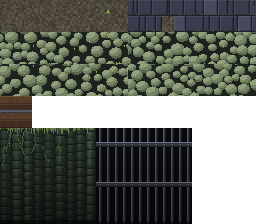
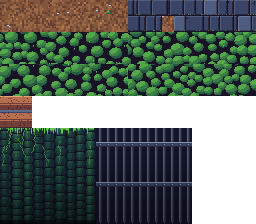
feat(art): vivid maze palette and a lighter day overlay

diff --git a/client/src/infrastructure/render/lighting.ts b/client/src/infrastructure/render/lighting.ts
@@ -9,8 +9,8 @@ type Rgb = [number, number, number];
 const LEAN = 25; // px the light shifts towards the facing direction
 
 // Darkness over the screen at night and by day.
-const NIGHT = { color: [9, 7, 22] as Rgb, alpha: 0.85 };
-const DAY = { color: [20, 16, 12] as Rgb, alpha: 0.12 };
+const NIGHT = { color: [10, 10, 38] as Rgb, alpha: 0.85 }; // deep blue, not grey
+const DAY = { color: [20, 16, 12] as Rgb, alpha: 0.04 }; // barely there: keep the colors alive
 // Tint at dawn and dusk (strongest halfway through the change).
 const TWILIGHT: Rgb = [110, 50, 18];
 const TWILIGHT_ALPHA = 0.45;

diff --git a/art/maze_tiles.py b/art/maze_tiles.py
@@ -1,6 +1,6 @@
 """Procedural tileset for the maze: dirt floor, stone paving, mossy wall tops
-and tall wall faces. Dark, desaturated palette so the black, pink and cyan
-player always stands out.
+and tall wall faces. Saturated mid-value palette (warm earth, blue-violet
+stone, living greens) so the black, pink and cyan player always stands out.
 
 Usage: python3 maze_tiles.py <out_dir>
 Writes maze_tiles.png and maze_tiles.json (frames by name, Aseprite-like).
@@ -15,26 +15,28 @@ from PIL import Image
 T = 32  # tile size
 WALL_H = 96  # wall face height: about twice the player's height
 
-# Palette (sampled and adjusted from the reference).
-DIRT = [(66, 61, 51), (78, 72, 60), (89, 83, 69), (101, 95, 79)]
-DIRT_SPECK = (52, 48, 41)
-PEBBLE = [(58, 60, 66), (104, 106, 110)]
-GRASS = [(96, 110, 52), (138, 150, 70), (176, 180, 92)]
+# Palette: Endesga-32-style ramps. Warm earth, blue-violet stone and living
+# greens, saturated but kept in the mid values, so the black, pink and cyan
+# player still owns the brightest and most saturated pixels on screen.
+DIRT = [(104, 66, 50), (132, 86, 60), (156, 104, 70), (180, 124, 82)]
+DIRT_SPECK = (78, 48, 40)
+PEBBLE = [(90, 105, 136), (192, 203, 220)]
+GRASS = [(38, 92, 66), (62, 137, 72), (99, 199, 77)]
 
-SLAB = [(44, 46, 60), (57, 60, 76), (70, 74, 92), (86, 92, 112)]
-SLAB_GAP = (34, 32, 40)
-SLAB_MOSS = (80, 104, 82)
+SLAB = [(38, 43, 68), (58, 68, 102), (78, 92, 128), (104, 122, 158)]
+SLAB_GAP = (24, 20, 37)
+SLAB_MOSS = (62, 137, 72)
 
-CAP = [(44, 52, 42), (90, 102, 78), (118, 132, 102), (146, 160, 126), (170, 182, 146)]
-CAP_GAP = (30, 34, 30)
+CAP = [(25, 60, 62), (38, 92, 66), (58, 126, 70), (84, 168, 74), (122, 196, 94)]
+CAP_GAP = (24, 20, 37)
 
-FACE = [(24, 30, 27), (34, 43, 36), (46, 58, 46), (62, 76, 58), (78, 94, 70)]
+FACE = [(20, 24, 40), (25, 48, 56), (32, 70, 64), (44, 96, 72), (60, 124, 80)]
 
 # Gates of the central square: iron bars over darkness, wooden top beam.
-IRON = [(28, 30, 36), (52, 56, 66), (84, 90, 104), (120, 126, 140)]
-GATE_DARK = (10, 9, 14)
-WOOD = [(46, 32, 24), (66, 46, 32), (88, 62, 42), (110, 80, 54)]
-FACE_MOSS = [(78, 98, 58), (104, 124, 72)]
+IRON = [(38, 43, 68), (58, 68, 102), (90, 105, 136), (139, 155, 180)]
+GATE_DARK = (24, 20, 37)
+WOOD = [(62, 39, 49), (115, 62, 57), (184, 111, 80), (228, 166, 114)]
+FACE_MOSS = [(62, 137, 72), (99, 199, 77)]
 
 
 def put(img, x, y, color, wrap=True):
